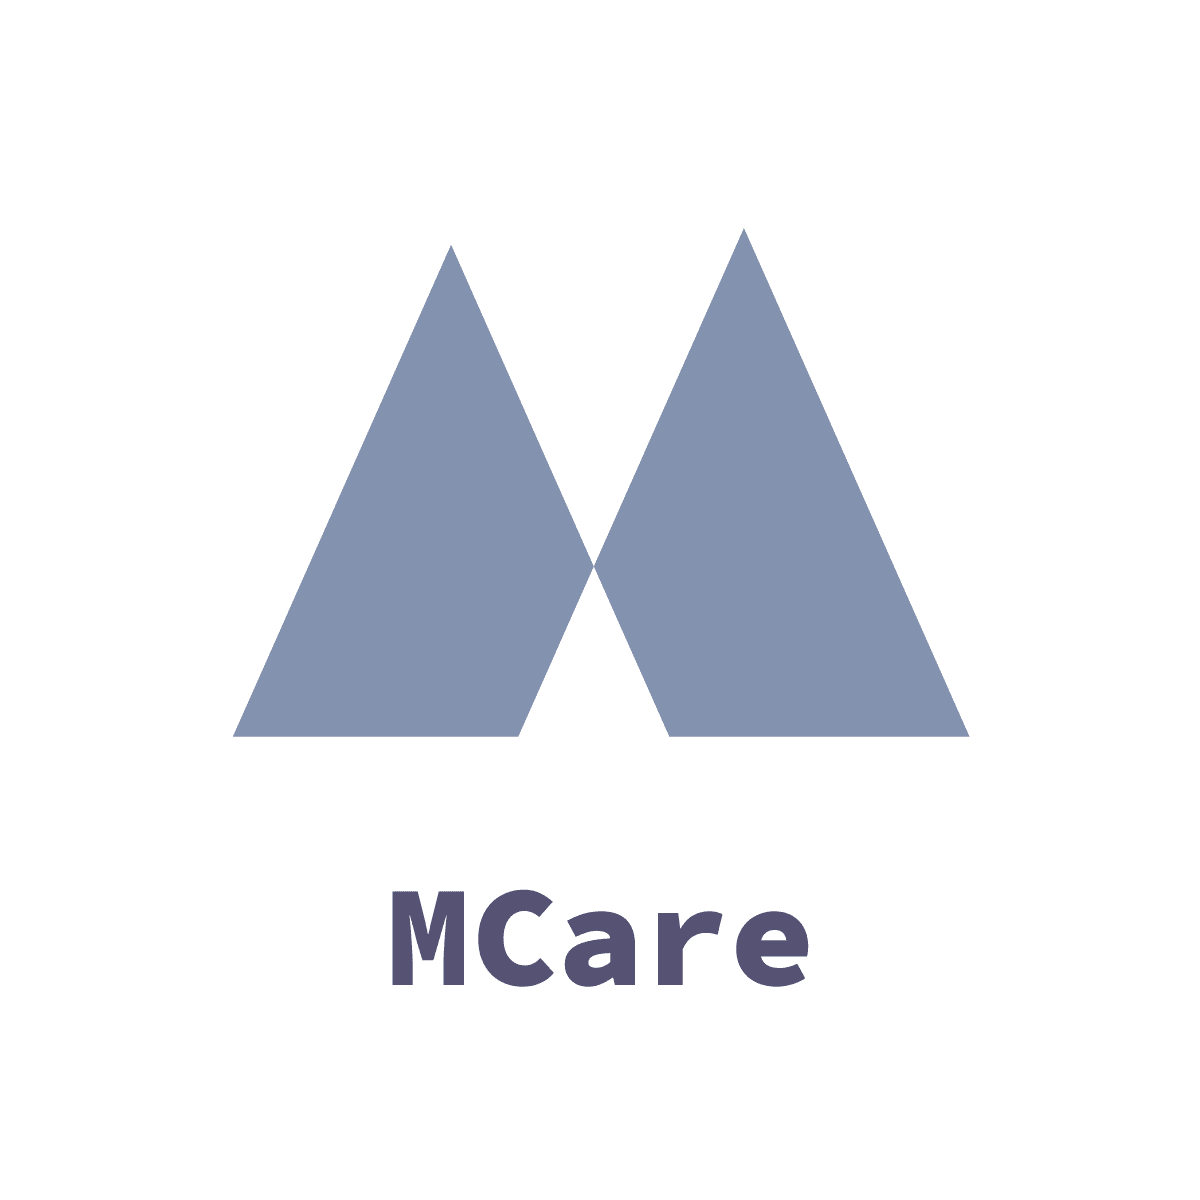
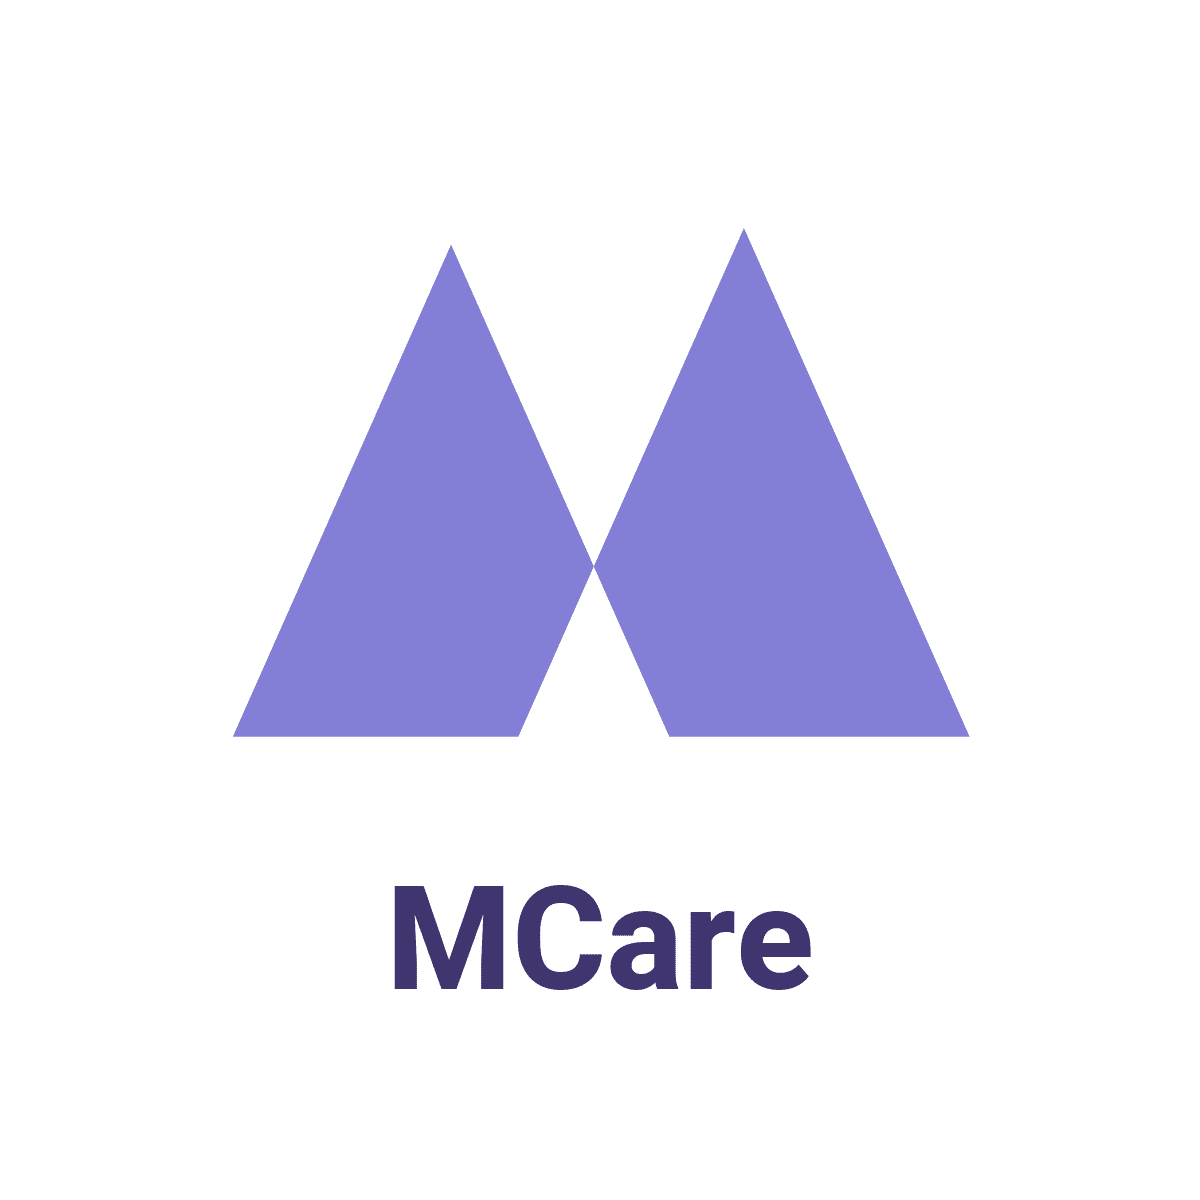
feat: implement coherent colour scheme and aesthetics for login page

Changed region(s): [[0.185, 0.185, 0.8017, 0.6167], [0.3083, 0.74, 0.6783, 0.8325]]

diff --git a/loginScreen/index.html b/loginScreen/index.html
@@ -1,7 +1,7 @@
 <!DOCTYPE html>
 <html lang="en">
 <head>
-	<title>Login V1</title>
+	<title>Welcome to MCare, please log in</title>
 	<meta charset="UTF-8">
 	<meta name="viewport" content="width=device-width, initial-scale=1">
 <!--===============================================================================================-->	
@@ -32,7 +32,10 @@
 
 				<form class="login100-form validate-form">
 					<span class="login100-form-title">
-						Welcome to MCare Please log in
+						Welcome to MCare
+							<span>
+								Please log in
+							</span> 
 					</span>
 
 					<div class="wrap-input100 validate-input" data-validate = "A valid email or username is required">

diff --git a/loginScreen/css/main.css b/loginScreen/css/main.css
@@ -256,7 +256,7 @@ iframe {
   width: 100%;
   height: 100%;
   box-shadow: 0px 0px 0px 0px;
-  color: rgba(87,184,70, 0.8);
+  color: #7755ca;
 }
 
 .input100:focus + .focus-input100 {
@@ -306,7 +306,7 @@ iframe {
 }
 
 .input100:focus + .focus-input100 + .symbol-input100 {
-  color: #57b846;
+  color: #7755ca;
   padding-left: 28px;
 }
 
@@ -334,7 +334,7 @@ iframe {
   width: 100%;
   height: 50px;
   border-radius: 25px;
-  background: #57b846;
+  background: #7755ca;
   display: -webkit-box;
   display: -webkit-flex;
   display: -moz-box;
@@ -351,7 +351,7 @@ iframe {
 }
 
 .login100-form-btn:hover {
-  background: #333333;
+  background: #c750c0;
 }
 
 
